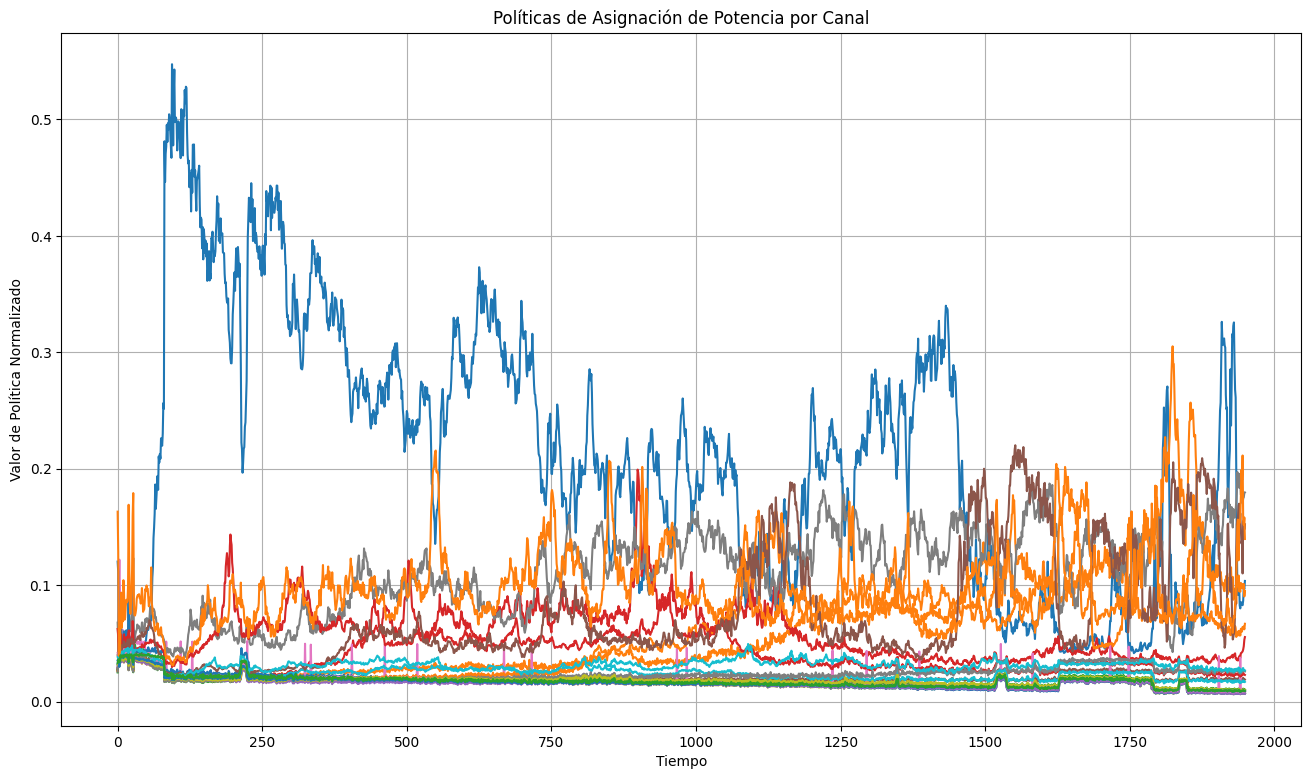
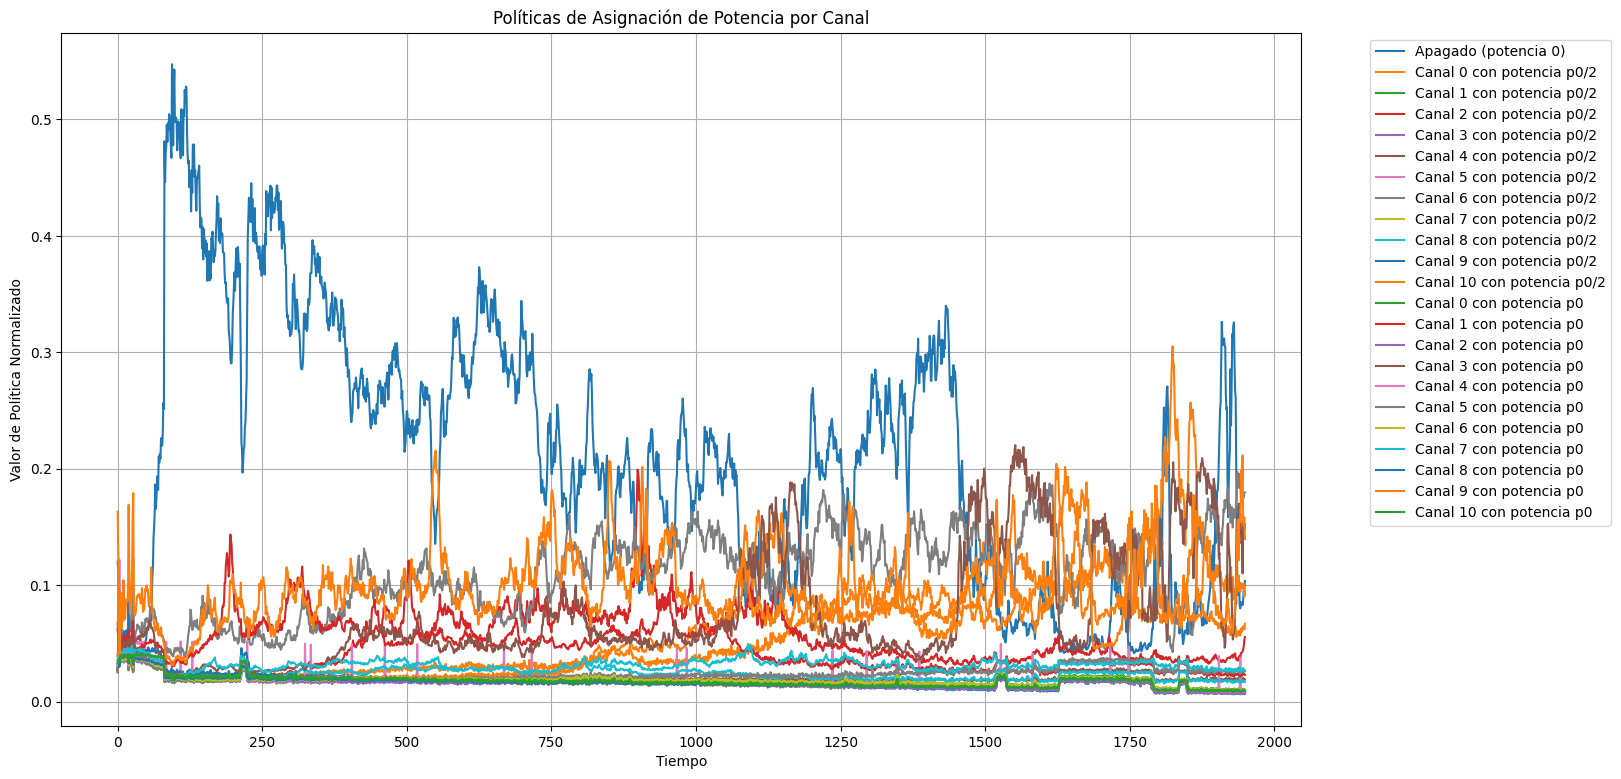
Agrego labels al plot del policies

diff --git a/RUN/plot_results_torch.py b/RUN/plot_results_torch.py
@@ -131,30 +131,50 @@ def plot_results(building_id, b5g, normalized_psi, normalized_psi_values=[], num
         # plt.savefig(image_path)
         # plt.close()
 
-
-        if (len(normalized_psi_values) > 0):
-            # Generar nombres para las 7 políticas
-            # nombres_politicas = [
-            #     'Apagado (potencia 0)',
-            #     'Canal 0 con potencia p0/2',
-            #     'Canal 1 con potencia p0/2', 
-            #     'Canal 2 con potencia p0/2',
-            #     'Canal 0 con potencia p0',
-            #     'Canal 1 con potencia p0',
-            #     'Canal 2 con potencia p0'
-            # ]
-
+        if len(normalized_psi_values) > 0:
             normalized_psi_value = np.array(normalized_psi_values)
+            
+            # Ensure the array is 2D (even if there's only one policy)
+            if len(normalized_psi_value.shape) == 1:
+                normalized_psi_value = normalized_psi_value.reshape(-1, 1)
+            
+            n_policies = normalized_psi_value.shape[1]  # Number of policies
+
+            # Generate labels dynamically
+            nombres_politicas = []
+            if n_policies == 1:
+                nombres_politicas = ['Apagado (potencia 0)']
+            else:
+                # Assume the first policy is "Apagado"
+                nombres_politicas.append('Apagado (potencia 0)')
+                
+                # Calculate num_channels and num_levels such that num_channels * num_levels = n_policies - 1
+                # and num_channels > num_levels
+                remaining_policies = n_policies - 1
+                num_levels = 1
+                num_channels = remaining_policies
+                
+                # Find the largest possible num_levels where num_channels > num_levels
+                for i in range(2, int(remaining_policies**0.5) + 1):
+                    if remaining_policies % i == 0:
+                        if remaining_policies // i > i:
+                            num_levels = i
+                            num_channels = remaining_policies // i
+                
+                # Generate labels grouped by power level first, then channel
+                for nivel in range(1, num_levels + 1):
+                    potencia = f"p0/{nivel+1}" if nivel != num_levels else "p0"
+                    for canal in range(num_channels):
+                        nombres_politicas.append(f"Canal {canal} con potencia {potencia}")
+
             plt.figure(figsize=(16, 9))
             
-            # Graficar cada política (cada columna de la matriz)
-            for i in range(normalized_psi_value.shape[1]):  # Iterar sobre las 7 columnas
-                # plt.plot(normalized_psi_value[:, i], label=nombres_politicas[i])
-                plt.plot(normalized_psi_value[:, i])
+            # Plot each policy
+            for i in range(n_policies):
+                plt.plot(normalized_psi_value[:, i], label=nombres_politicas[i])
 
-            
             plt.grid()
-            # plt.legend(bbox_to_anchor=(1.05, 1), loc='upper left')
+            plt.legend(bbox_to_anchor=(1.05, 1), loc='upper left')
             plt.xlabel('Tiempo')
             plt.ylabel('Valor de Política Normalizado')
             plt.title('Políticas de Asignación de Potencia por Canal')
